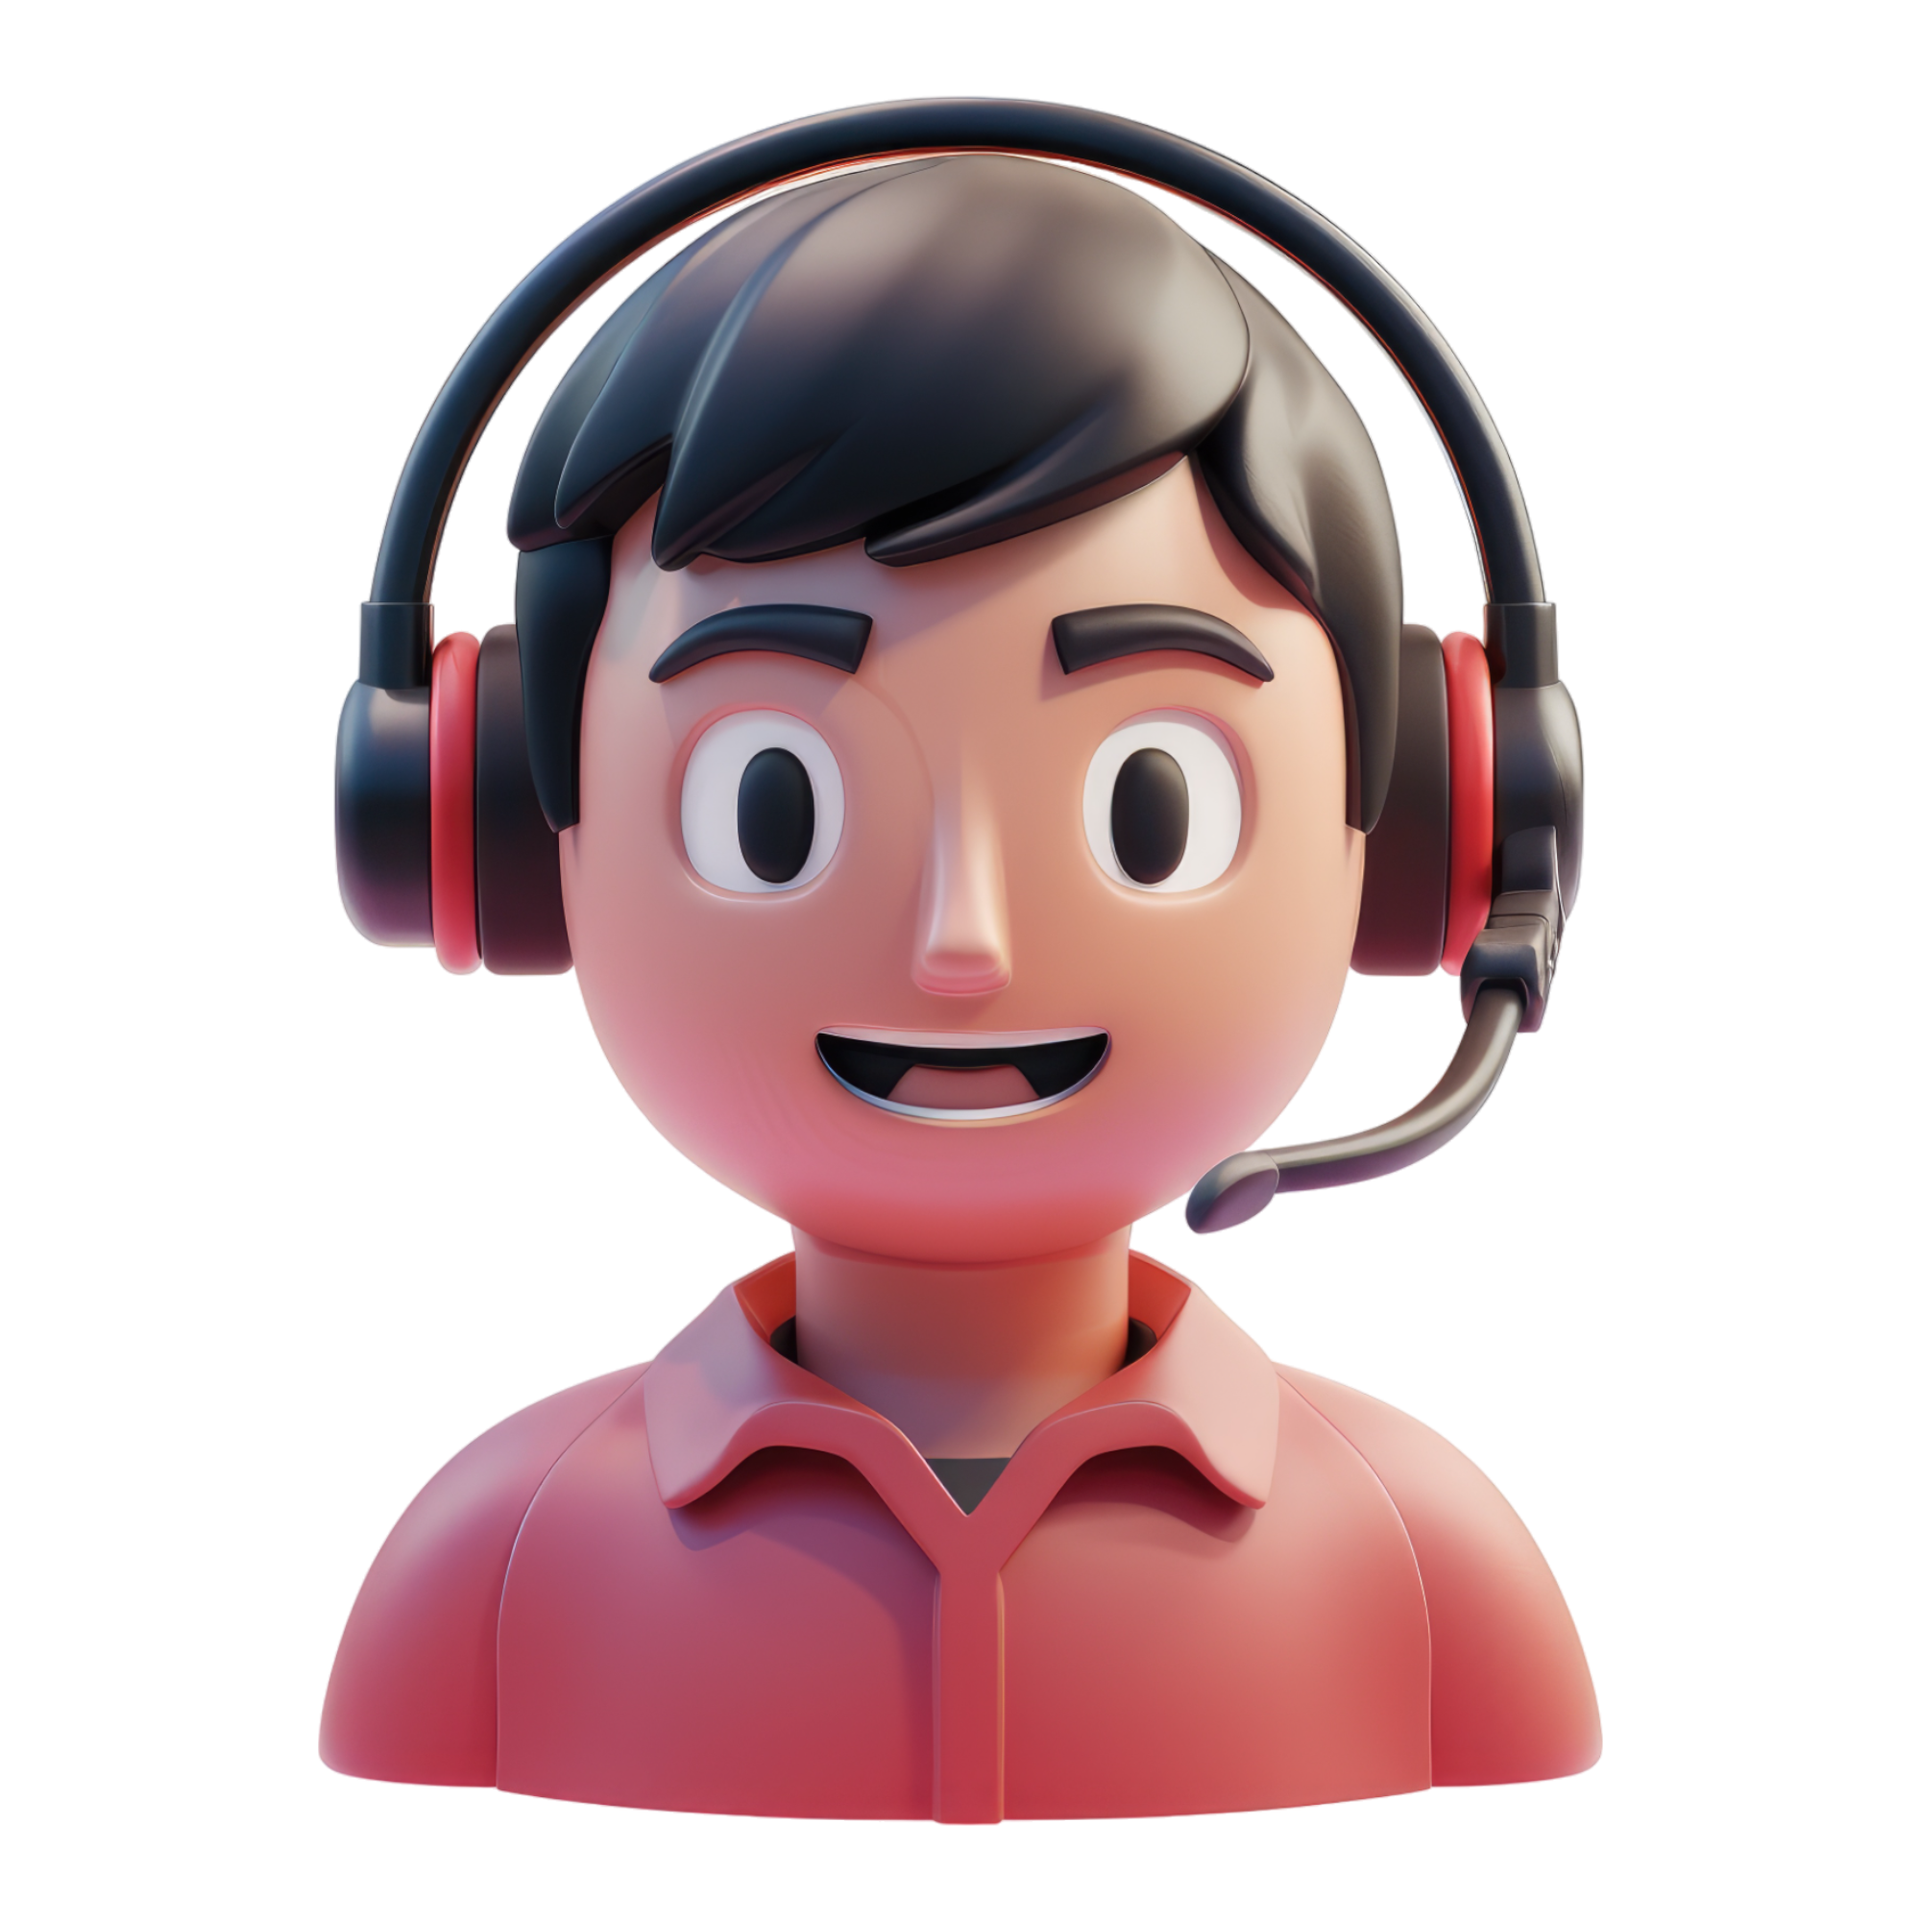
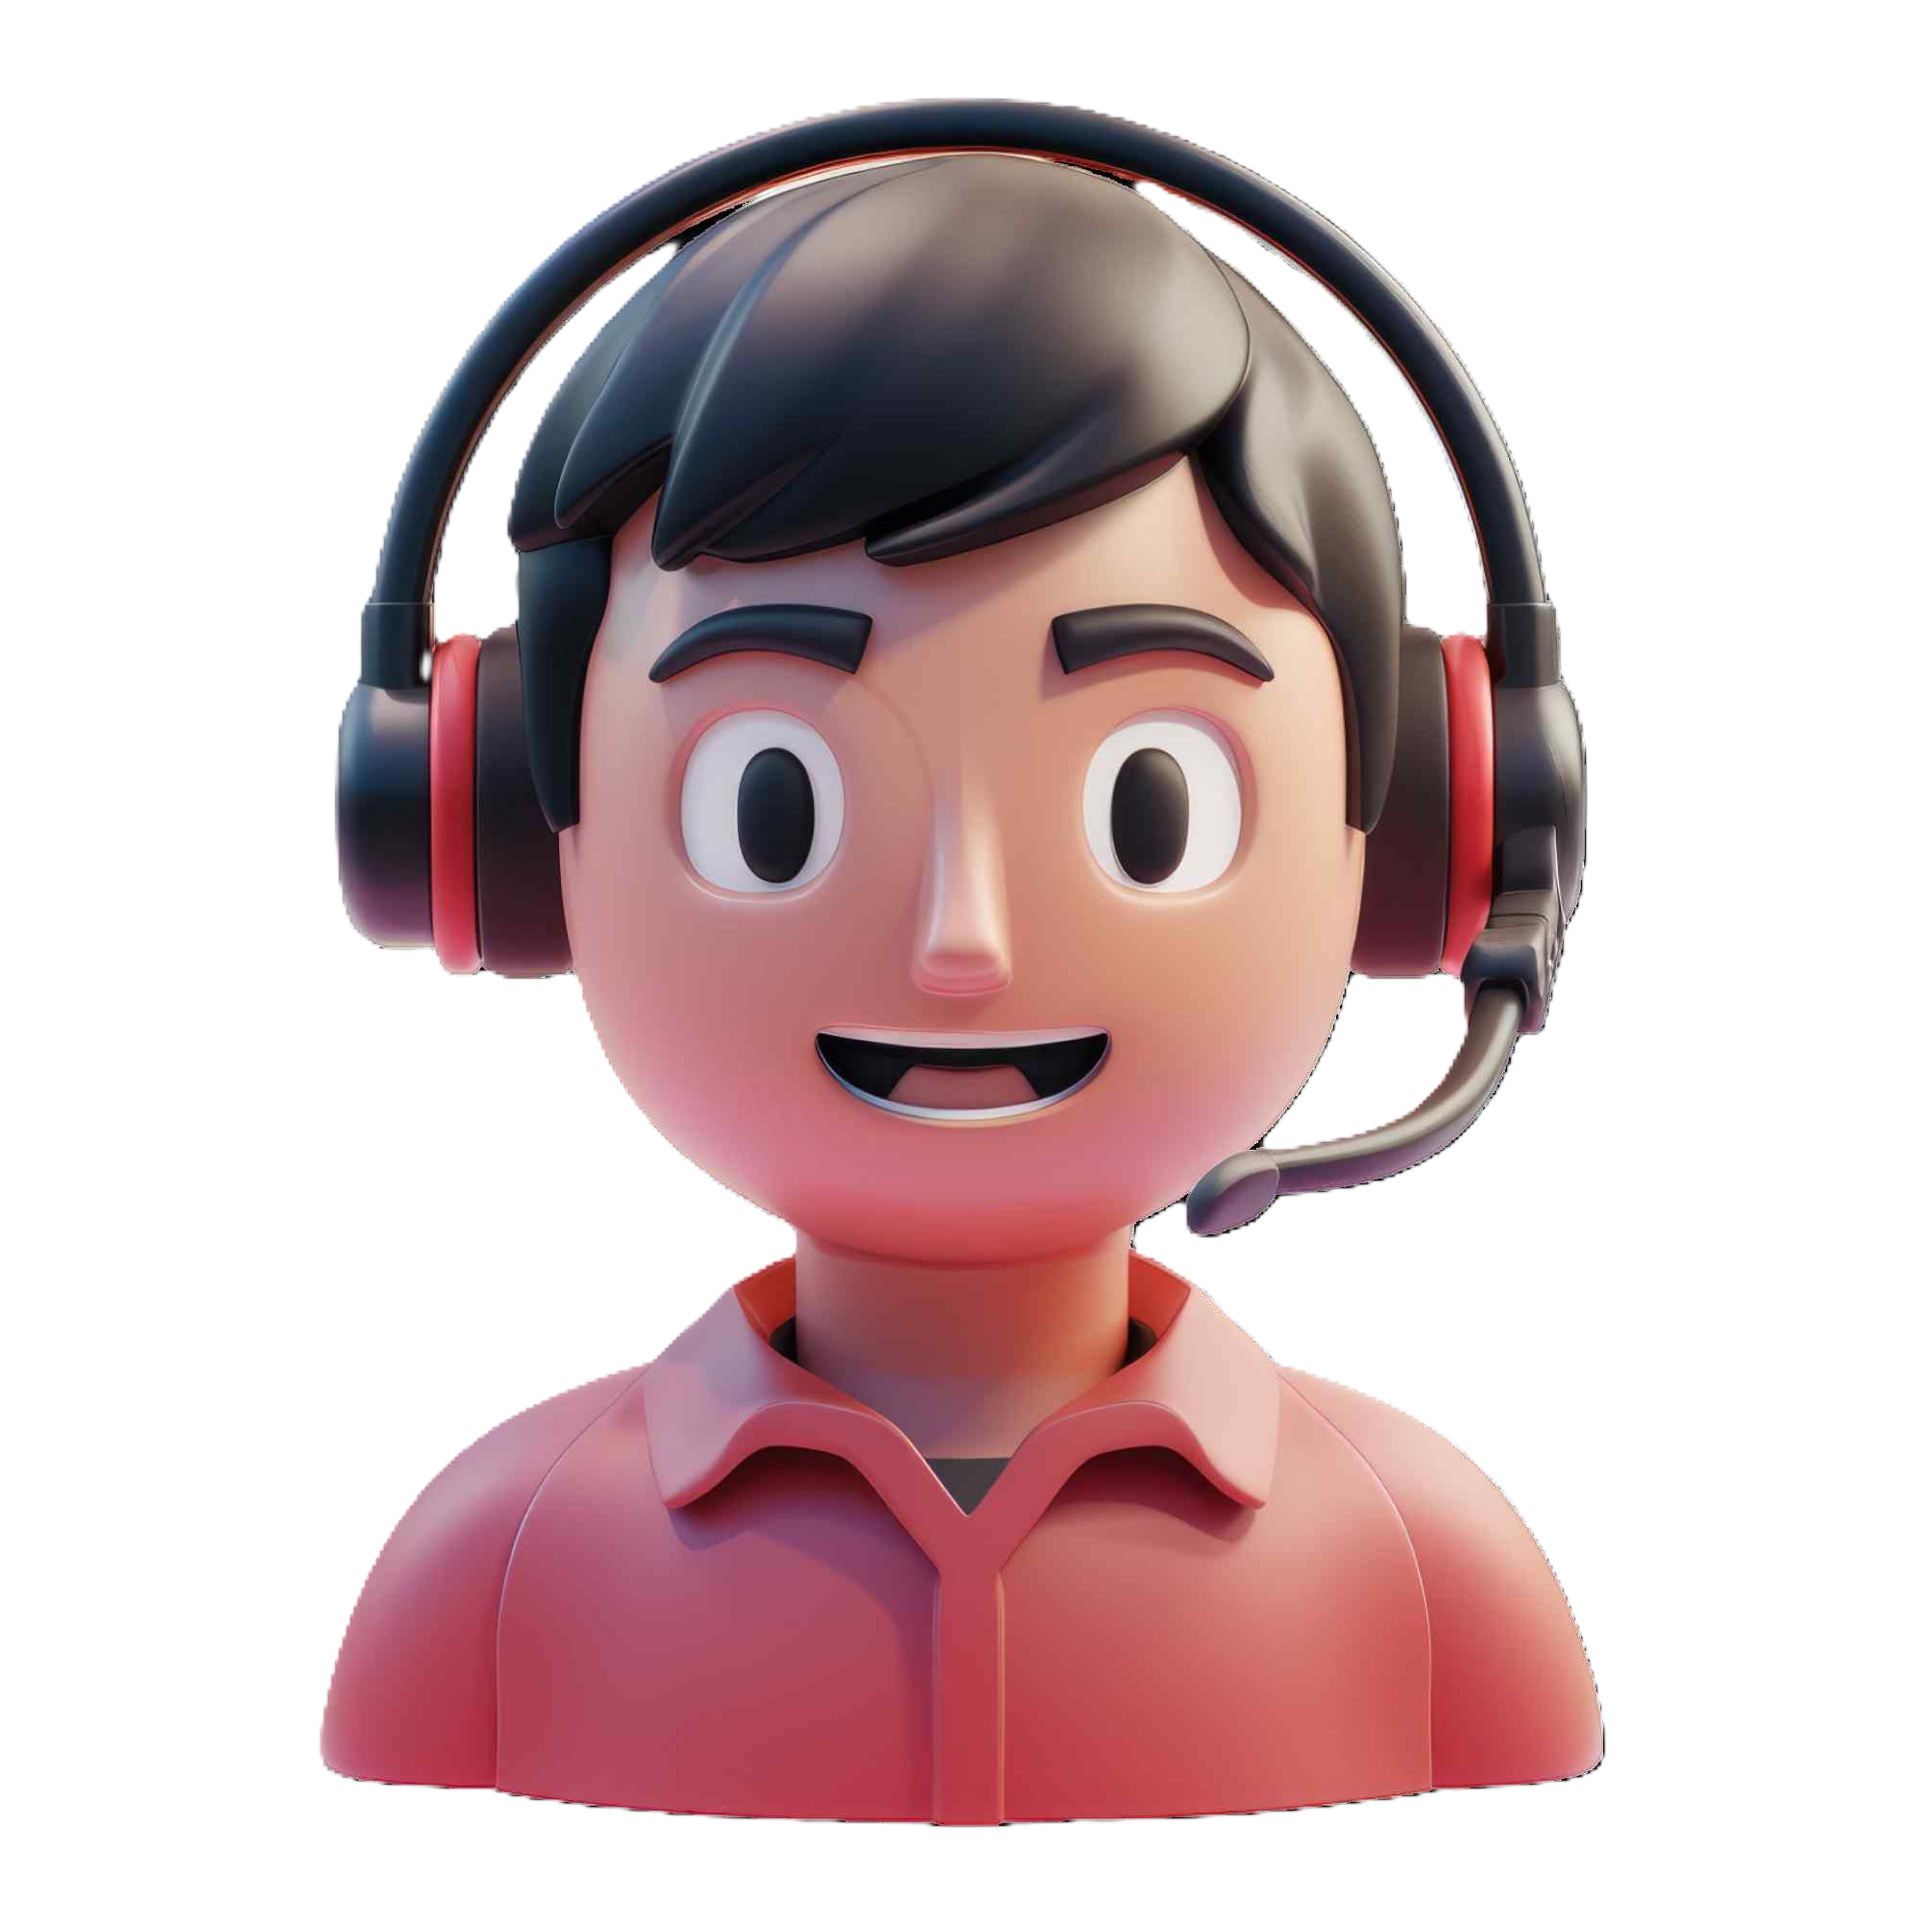
Refactor image sources and captions in tournaments.php and partners.php

diff --git a/tournaments.php b/tournaments.php
@@ -353,7 +353,7 @@ require 'auth.php';
 
                     <div class="items-coach-man">
                         <figure>
-                            <img src="images/admin_avatar.jpg" alt="pmg" />
+                            <img src="images/admin_avatar.png" alt="pmg" />
                         </figure>
                         <div class="name">
                             <h5> Abubakar Sadiq
